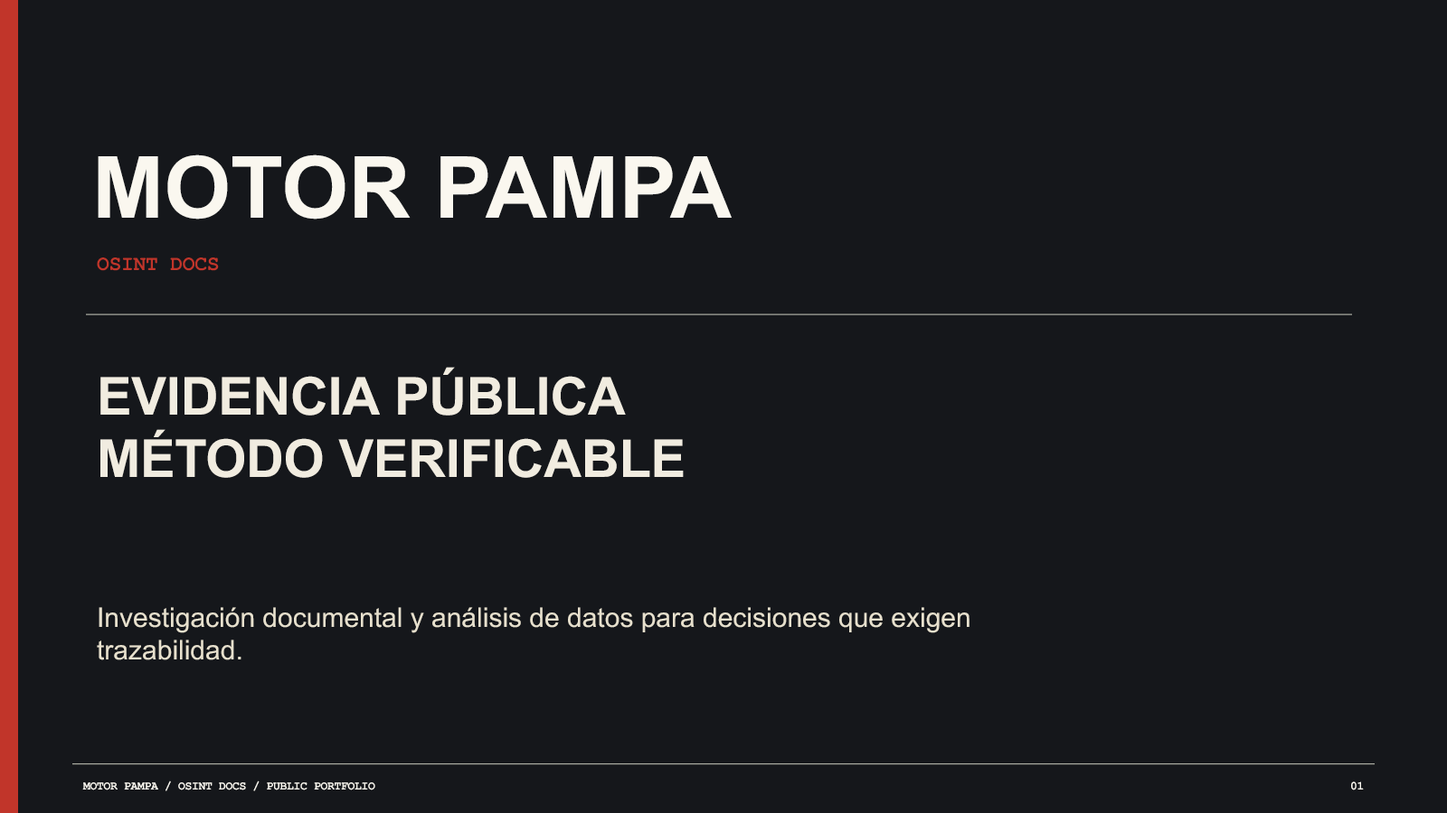
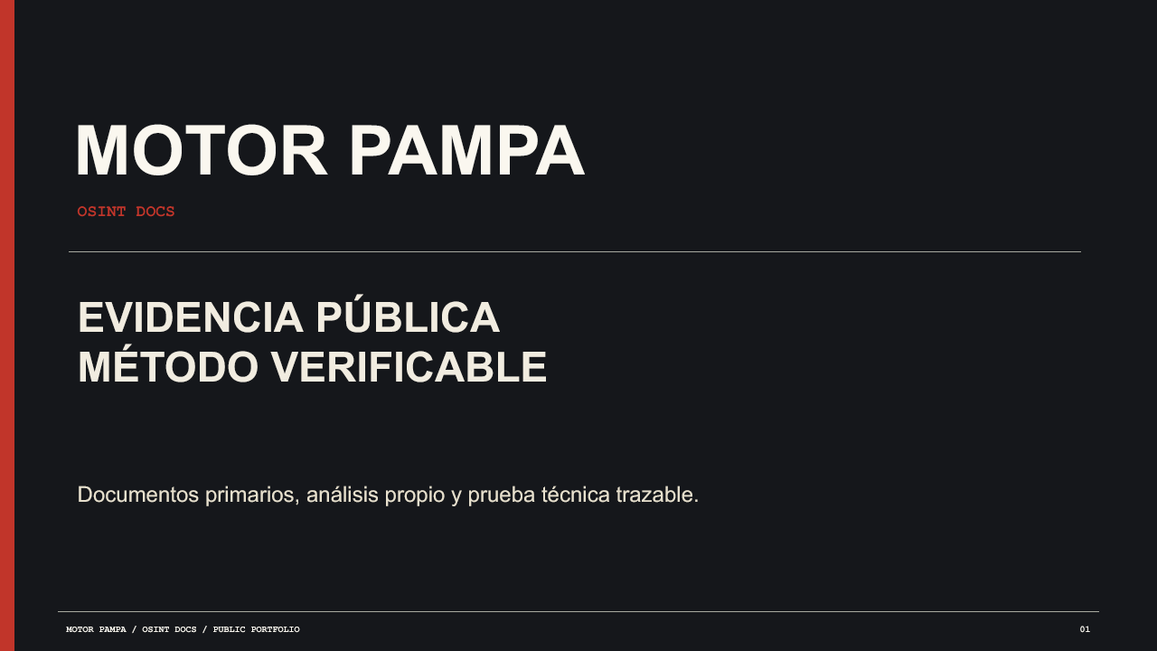
Present evidence depth and commercial offer clearly

diff --git a/index.html b/index.html
@@ -3,7 +3,7 @@
 <head>
   <meta charset="utf-8">
   <meta name="viewport" content="width=device-width, initial-scale=1">
-  <meta name="description" content="Motor Pampa: investigación documental y análisis de datos con trazabilidad.">
+  <meta name="description" content="Motor Pampa: investigación documental, auditoría de datos y análisis técnico-probatorio con trazabilidad.">
   <title>Motor Pampa — OSINT Docs</title>
   <link rel="stylesheet" href="design/site.css">
 </head>
@@ -29,8 +29,8 @@
       <div class="shell">
         <div class="eyebrow">PRÁCTICA INDEPENDIENTE / 2026</div>
         <h1>Evidencia pública.<br>Método verificable.</h1>
-        <p class="lede">Investigación documental y análisis de datos para decisiones que exigen trazabilidad. Cada hallazgo conserva su fuente, su grado de evidencia y sus límites.</p>
-        <a class="cta" href="presentacion/">VER PRESENTACIÓN</a>
+        <p class="lede">Documentos primarios, reconstrucción societaria, tasas y análisis propios, y prueba técnica para decisiones que exigen trazabilidad. Cada hallazgo conserva su fuente, método y fecha de corte.</p>
+        <a class="cta" href="presentacion/Motor_Pampa_Research_2026-09-23.pptx">VER PRESENTACIÓN</a>
       </div>
     </section>
 
@@ -52,14 +52,15 @@
       <div class="shell">
         <div class="kicker">02 / INVESTIGACIONES</div>
         <h2>Trabajo publicado, fuente por fuente</h2>
-        <p class="lede">Seis líneas de investigación con cifras de corte, documentos primarios y límites de cada conclusión.</p>
+        <p class="lede">Siete líneas de investigación con cifras de corte, documentos primarios y límites de cada conclusión.</p>
         <div class="grid">
           <article class="panel span-4"><div class="id">ELECTORAL / SOCIETARIO</div><h3>Cerimedo</h3><p>Auditoría de campaña, sociedades, registros FARA y correcciones del legajo.</p><a href="investigaciones/cerimedo.md">Leer investigación</a></article>
-          <article class="panel span-4"><div class="id">JUJUY / SOCIETARIO</div><h3>Cannava</h3><p>Contratos originales, dos corredores de derechos y estructura BBV–SATIN–Blueberries.</p><a href="investigaciones/cannava.md">Leer investigación</a></article>
-          <article class="panel span-4"><div class="id">SALUD / PRUEBA</div><h3>IOSFA</h3><p>Mora informativa, transición institucional y preservación técnica de registros.</p><a href="investigaciones/iosfa.md">Leer investigación</a></article>
+          <article class="panel span-4"><div class="id">JUJUY / SOCIETARIO</div><h3>Cannava</h3><p>Contrato original, exhibits SEC, SPA CSE y boletines: dos corredores de derechos y reconstrucción BBV–SATIN–Blueberries.</p><a href="investigaciones/cannava.md">Leer investigación</a></article>
+          <article class="panel span-4"><div class="id">SALUD / PRUEBA</div><h3>IOSFA</h3><p>Mora informativa y protocolo técnico para preservar y conciliar registros durante la transición.</p><a href="investigaciones/iosfa.md">Leer investigación</a></article>
           <article class="panel span-4"><div class="id">CIENCIA / REGULACIÓN</div><h3>Cannabis en Argentina</h3><p>Once mapas; publicaciones, instituciones, ensayos y brechas entre ciencia y acceso.</p><a href="investigaciones/cannabis-ciencia.md">Leer investigación</a></article>
-          <article class="panel span-4"><div class="id">TRANSPARENCIA</div><h3>Acceso a la información</h3><p>Estadísticas oficiales de solicitudes vencidas por organismo y unidad de análisis.</p><a href="investigaciones/acceso-informacion.md">Leer investigación</a></article>
-          <article class="panel span-4"><div class="id">SALUD PÚBLICA</div><h3>Suicidios</h3><p>Serie nacional, diferencias territoriales y límites al comparar cuatro registros.</p><a href="investigaciones/suicidios.md">Leer investigación</a></article>
+          <article class="panel span-4"><div class="id">TRANSPARENCIA</div><h3>Acceso a la información</h3><p>62.311 solicitudes, tasas comparables y circuitos de demora como insumo para reclamos y litigios.</p><a href="investigaciones/acceso-informacion.md">Leer investigación</a></article>
+          <article class="panel span-4"><div class="id">SALUD PÚBLICA</div><h3>Suicidios</h3><p>Serie 2005–2024, tasas y cálculos propios, contraste de cuatro sistemas y crítica de clasificación.</p><a href="investigaciones/suicidios.md">Leer investigación</a></article>
+          <article class="panel span-4"><div class="id">AUDITORÍA DE FUENTES</div><h3>Observatorio Cannis</h3><p>Corrección de proxies, cobertura documental, cifras simuladas y secuencia normativa.</p><a href="investigaciones/observatorio-cannis.md">Leer investigación</a></article>
         </div>
         <p><a href="investigaciones/README.md">Ver índice y regla de evidencia</a></p>
       </div>
@@ -96,9 +97,9 @@
       <div class="shell grid">
         <div class="span-8">
           <div class="kicker">04 / FORMATOS COMPRABLES</div>
-          <h2>Empezar con un piloto acotado</h2>
-          <p class="lede">Cuatro pilotos con pregunta cerrada, fuentes autorizadas, entregables y criterio de aceptación. Hay alcance, plazo y precio orientativo antes de pedir una cotización.</p>
-          <p><a href="comercial/PILOTOS.md">Comparar los cuatro pilotos</a></p>
+          <h2>Un piloto cerrado o un análisis a medida</h2>
+          <p class="lede">Un servicio contratado para producir entregables verificables, no una idea que busca financiamiento. Cuatro pilotos con alcance, plazo y precio orientativo; auditorías de informes y análisis técnico-probatorio a medida.</p>
+          <p><a href="comercial/PILOTOS.md">Comparar pilotos</a> · <a href="comercial/SERVICIOS.md">Ver todas las capacidades</a></p>
         </div>
         <div class="panel span-4">
           <div class="metric">4</div>
@@ -110,7 +111,7 @@
   </main>
 
   <footer>
-    <div class="shell">MOTOR PAMPA / PUBLIC PORTFOLIO / CORTE 2026-09-22 / NO ENVIAR MATERIAL SENSIBLE POR GITHUB</div>
+    <div class="shell">MOTOR PAMPA / PUBLIC PORTFOLIO / ACTUALIZACIÓN 2026-09-23 / NO ENVIAR MATERIAL SENSIBLE POR GITHUB</div>
   </footer>
 </body>
 </html>

diff --git a/README.md b/README.md
@@ -1,12 +1,12 @@
 # MOTOR PAMPA
 
-### Si una conclusión importa, mostremos los documentos.
+### Documentos primarios, datos propios y una ruta de prueba para decisiones reales.
 
-Investigación documental OSINT, auditoría de datos y análisis técnico-probatorio en Argentina. Reconstruimos hechos a partir de fuentes dispersas y entregamos una ruta verificable desde cada afirmación hasta su respaldo. También señalamos lo que falta, contradice o todavía no puede afirmarse.
+Investigación documental OSINT, auditoría de datos y análisis técnico-probatorio en Argentina. Llegamos a contratos, expedientes, bases y archivos originales; reconstruimos cadenas societarias y administrativas; calculamos indicadores propios. Cada conclusión vuelve a su fuente, su método y su fecha de corte.
 
 ![Portada de Motor Pampa](presentacion/preview.png)
 
-**[Ver investigaciones reales](investigaciones/README.md) · [Explorar cuatro pilotos](comercial/PILOTOS.md) · [Leer el método](metodologia/METODO.md) · [Abrir la presentación](presentacion/Motor_Pampa_Research.pptx)**
+**[Ver investigaciones reales](investigaciones/README.md) · [Explorar cuatro pilotos](comercial/PILOTOS.md) · [Leer el método](metodologia/METODO.md) · [Abrir la presentación](presentacion/Motor_Pampa_Research_2026-09-23.pptx)**
 
 ## El problema que resolvemos
 
@@ -17,8 +17,11 @@ Motor Pampa ordena ese trabajo para estudios jurídicos, equipos de compliance, 
 | Si necesitás… | Te entregamos… |
 |---|---|
 | Saber si una hipótesis se sostiene | Cronología, matriz de afirmaciones, fuentes y vacíos |
+| Reconstruir una cadena de contratos o sociedades | Instrumentos primarios, mapa de partes y derechos, cambios de control y eslabones documentales faltantes |
+| Comprobar un informe antes de usarlo | Auditoría de fuentes, filtros, código y cifras; correcciones y límites publicables |
 | Revisar un corpus sin perder versiones | Índice, hashes, procedencia y bitácora de un data room |
-| Usar una cifra pública con confianza | Base depurada, controles, análisis reproducible y límites |
+| Usar una cifra pública con confianza | Base depurada, tasas y estimaciones propias, pruebas de sensibilidad, código y límites |
+| Documentar una mora informativa | Tasas comparables por sujeto y cohorte, recorrido administrativo y anexos para reclamos o revisión jurídica |
 | Detectar cambios relevantes | Observatorio de fuentes con alertas justificadas |
 | Preparar registros digitales para una controversia o auditoría | Plan de preservación, inventario de sistemas, cotejo de versiones y lotes, controles de integridad e informe técnico para revisión jurídica o pericial, según los materiales disponibles |
 
@@ -30,16 +33,17 @@ Estas páginas son una edición pública del trabajo; enlazan originales en sus 
 
 | Investigación | Lo que permite examinar |
 |---|---|
-| [Cannava](investigaciones/cannava.md) | Contratos y presentaciones regulatorias de varios países; dos rutas contractuales que **no** se unen sin el instrumento faltante. |
-| [Acceso a la información](investigaciones/acceso-informacion.md) | Auditoría de 62.311 solicitudes y por qué “expediente alojado en una repartición” no equivale a “organismo que debía responder”. |
-| [Suicidios](investigaciones/suicidios.md) | Serie 2005–2024 y contraste entre registros sin sumarlos como observaciones independientes ni exponer personas. |
+| [Cannava](investigaciones/cannava.md) | Contrato original Cannava–PNTV, exhibits SEC, SPA regulatorio CSE y boletines: reconstrucción societaria BBV–SATIN–Blueberries y dos rutas de derechos aún no unidas por un instrumento público. |
+| [Acceso a la información](investigaciones/acceso-informacion.md) | 62.311 solicitudes y 4.451 reclamos: proporciones de vencimiento por sujeto obligado, circuitos de demora y una base para preparar reclamos y litigios con el expediente individual. |
+| [Suicidios](investigaciones/suicidios.md) | Serie 2005–2024, cálculos propios de tasas y cambios, y contraste crítico de DEIS, SNIC, SNVS y MPA sin duplicar hechos ni exponer personas. |
 | [IOSFA](investigaciones/iosfa.md) | Dos cortes administrativos y un protocolo técnico para preservar logs, cotejar migraciones y documentar qué prueba faltaría para evaluar continuidad prestacional. |
+| [Observatorio Cannis](investigaciones/observatorio-cannis.md) | Auditoría adversarial de un dossier: proxies temáticos, objetos no recuperados, cifras simuladas y cronología normativa corregida. |
 
 También están [Cerimedo](investigaciones/cerimedo.md) y el [mapa científico del cannabis en Argentina](investigaciones/cannabis-ciencia.md). Los [tres casos demostrativos](casos/) muestran el formato de entrega sin publicar material sensible.
 
 ## Empezar con una pregunta, no con un contrato enorme
 
-Los [cuatro modelos de piloto](comercial/PILOTOS.md) fijan alcance, plazo, entregables, aceptación y precio orientativo. El punto de entrada más simple es un [Evidence Sprint](comercial/pilotos/01-evidence-sprint.md): una pregunta cerrada, búsqueda delimitada y un memo que muestra qué se puede sostener hoy y qué diligencia conviene hacer después. También hay [auditoría de datos](comercial/pilotos/02-auditoria-datos.md), [Data Room](comercial/pilotos/03-data-room.md) y [observatorio](comercial/pilotos/04-observatorio.md).
+Esto es un servicio de investigación contratado por un equipo que necesita decidir, publicar, auditar o preparar una controversia; **no es una solicitud de financiamiento para una idea**. Los [cuatro modelos de piloto](comercial/PILOTOS.md) fijan alcance, plazo, entregables, aceptación y precio orientativo. El punto de entrada más simple es un [Evidence Sprint](comercial/pilotos/01-evidence-sprint.md): una pregunta cerrada, búsqueda delimitada y un memo que muestra qué se puede sostener hoy y qué diligencia conviene hacer después. También hay [auditoría de datos](comercial/pilotos/02-auditoria-datos.md), [Data Room](comercial/pilotos/03-data-room.md) y [observatorio](comercial/pilotos/04-observatorio.md).
 
 El [análisis técnico-probatorio](comercial/SERVICIOS.md#análisis-técnico-probatorio) se encuadra como proyecto a medida: depende de los sistemas, custodios, registros disponibles y finalidad procesal o de auditoría. No se le asigna un precio estándar sin revisar esos extremos.
 
@@ -62,4 +66,4 @@ Este portafolio sigue las [salvaguardas de privacidad y publicación](salvaguard
 
 ---
 
-**Motor Pampa · práctica independiente · edición pública 2026-09-22.** Cada investigación declara su propio corte. Publicar el repositorio no concede licencia de reutilización del contenido: ver [LICENSE.md](LICENSE.md).
+**Motor Pampa · práctica independiente · edición pública 2026-09-23.** Cada investigación declara su propio corte. Publicar el repositorio no concede licencia de reutilización del contenido: ver [LICENSE.md](LICENSE.md).

diff --git a/investigaciones/observatorio-cannis.md b/investigaciones/observatorio-cannis.md
@@ -1,0 +1,23 @@
+# Observatorio Cannis: auditar el informe antes de ampliar el mapa
+
+`CORTE DE AUDITORÍA / 2026-06-21` · `CORTE DE MAPAS / 2026-06-22`
+
+Esta línea empezó con una pregunta incómoda: ¿las cifras y relaciones de un dossier previo resistían el regreso a sus fuentes? El trabajo revisó bases de acceso a la información, documentos regulatorios, presupuesto y catálogos sectoriales. Algunas señales sobrevivieron; otras cambiaron de significado al corregir el universo, recuperar el objeto de los expedientes o revisar el código que producía una cifra. El [mapa científico e institucional](cannabis-ciencia.md) es una ampliación posterior, no un sustituto de esta auditoría.
+
+## Tres correcciones que importan
+
+| Afirmación que había que comprobar | Resultado del cotejo | Consecuencia editorial |
+|---|---|---|
+| “360 reclamos sobre cannabis” | El filtro capturaba organismos de Salud y otras áreas, sin verificar el tema de cada reclamo. | La cifra describe un **proxy institucional amplio**, no 360 reclamos temáticos. |
+| “No hay reclamos sobre cannabis en la muestra” | De 281 reclamos candidatos desde marzo de 2021, el objeto pudo recuperarse en 140. Ninguno de esos 140 quedó confirmado como cannabis; 141 permanecieron sin clasificación temática concluyente. | Cero confirmados en lo recuperado **no** equivale a cero en todo el universo. |
+| “ARICCAME tuvo esta ejecución presupuestaria” | Las cifras atribuidas a la agencia provenían de una rutina de extracción simulada. | Se retiraron de la evidencia y se buscó una actividad identificable en [Presupuesto Abierto](https://www.presupuestoabierto.gob.ar/sici/datos-abiertos), con unidad y corte propios. |
+
+`[A]` Los [datasets oficiales de solicitudes](https://datos.gob.ar/dataset/aaip-solicitudes-acceso-informacion-publica) y [reclamos](https://datos.gob.ar/dataset/aaip-reclamos-sobre-solicitudes-acceso-informacion-publica) permiten reproducir los recuentos administrativos. No ofrecen una clave directa para unir cada solicitud con su eventual reclamo ni garantizan recuperar el tema de todos los expedientes. Por eso el observatorio separa **candidato por organismo**, **objeto recuperado** y **caso temáticamente confirmado**.
+
+La línea regulatoria también exigió una corrección de secuencia: el [Decreto 462/2025](https://www.boletinoficial.gob.ar/detalleAviso/primera/328017/20250708) dispuso la disolución de ARICCAME e INASE, pero el [Decreto 627/2025](https://www.boletinoficial.gob.ar/detalleAviso/primera/330755/20250903) restituyó expresamente el régimen y las estructuras previas tras el rechazo legislativo. Describir sólo la primera medida deja una historia incompleta. La [Resolución INASE 484/2025](https://www.boletinoficial.gob.ar/detalleAviso/primera/333862/20251103) fue publicada en noviembre, no en marzo de ese año; una coincidencia temporal mal fechada no sostiene una explicación causal.
+
+## Qué demuestra el trabajo
+
+El producto verificable es una **auditoría adversarial de un informe**: inventario de afirmaciones, reproducción de filtros y cálculos, revisión del código de origen, búsqueda de documentos primarios, registro de cobertura y correcciones públicas con sus límites. La capa adicional contrastó normas, catálogo [INASE](https://gestion.inase.gob.ar/registroCultivares/publico/catalogo) y el [Observatorio de Cannabis de UNPAZ](https://observatoriocannabis.unpaz.edu.ar/), sin tratar la ausencia en un catálogo como inexistencia del hecho buscado.
+
+Esta edición pública no redistribuye objetos de reclamos, expedientes ni el corpus de trabajo. Tampoco convierte una hipótesis sobre coordinación deliberada o trato preferencial en una conclusión: los documentos examinados no bastan para demostrarla.

diff --git a/investigaciones/suicidios.md b/investigaciones/suicidios.md
@@ -2,13 +2,15 @@
 
 `SERIE CONSOLIDADA 2005–2024 / CORTE METODOLÓGICO 2026-09-17`
 
-La investigación combina estadísticas vitales, seguridad, vigilancia y registros provinciales sin sumarlos como si fueran observaciones independientes. La serie principal procede de [DEIS](https://www.argentina.gob.ar/salud/deis/datos/defunciones), con denominadores de [INDEC](https://www.indec.gob.ar/indec/web/Nivel3-Tema-2-24). Para mortalidad registrada se usa CIE-10 X60–X84. Las muertes de intención no determinada, Y10–Y34, se muestran aparte como prueba de sensibilidad; no se reclasifican automáticamente.
+La investigación construye una serie, **produce números propios** y contrasta estadísticas vitales, seguridad, vigilancia y registros provinciales sin sumarlos como si fueran observaciones independientes. La serie principal procede de [DEIS](https://www.argentina.gob.ar/salud/deis/datos/defunciones), con denominadores de [INDEC](https://www.indec.gob.ar/indec/web/Nivel3-Tema-2-24). Para mortalidad registrada se usa CIE-10 X60–X84. Las muertes de intención no determinada, Y10–Y34, se muestran aparte como prueba de sensibilidad; no se reclasifican automáticamente.
 
 ## Resultados que admiten publicación agregada
 
 - `[A]` En el universo de residentes de las 24 jurisdicciones, la serie DEIS pasa de **3.208** defunciones clasificadas como autoinfligidas en 2022 a **3.598** en 2024: 390 registros adicionales. El cambio de una cifra publicada no separa por sí mismo incidencia, captación y codificación.
-- `[A]` En el trienio 2022–2024, para residentes bonaerenses con partido conocido, la tasa cruda registrada fue **7,32** por 100.000 personas-año en el interior y **2,84** en los 40 partidos metropolitanos. Al agregar en una *prueba de sensibilidad* la categoría de intención no determinada, los valores son **21,71** y **21,18**. La segunda suma no estima suicidios ocultos ni elimina diferencias de edad.
-- `[A]` En la variación nacional 2022–2024, los grupos de 25 a 44 años aportan 318 de los 390 registros netos adicionales. En 15–24 años hubo 26 menos en esa ventana. El anuario oficial ubicó al suicidio como segunda causa de muerte en 15–24 años en 2024; no sustenta la frase “primera causa para todos los jóvenes”.
+- `[A · cálculo propio]` En el trienio 2022–2024, para residentes bonaerenses con partido conocido, la tasa cruda registrada fue **7,32** por 100.000 personas-año en el interior y **2,84** en los 40 partidos metropolitanos. Al agregar en una *prueba de sensibilidad* la categoría de intención no determinada, los valores son **21,71** y **21,18**. La segunda suma no estima suicidios ocultos ni elimina diferencias de edad.
+- `[A · cálculo propio]` En la variación nacional 2022–2024, los grupos de 25 a 44 años aportan 318 de los 390 registros netos adicionales. En 15–24 años hubo 26 menos en esa ventana. El anuario oficial ubicó al suicidio como segunda causa de muerte en 15–24 años en 2024; no sustenta la frase “primera causa para todos los jóvenes”.
+
+Además de esas cuentas, el trabajo calculó tasas por edad y sexo, razones estandarizadas, años potenciales de vida perdidos, tendencia mediante modelos de Poisson, intervalos por remuestreo, contribución territorial al cambio y pruebas de quiebre en la clasificación. Son **estimaciones de Motor Pampa sobre registros oficiales**, no indicadores publicados por esos organismos. La crítica metodológica es parte del resultado: un cambio en la codificación, la cobertura del SNVS o el flujo de datos entre sistemas puede alterar la comparación sin que eso mida automáticamente un cambio en la incidencia real.
 
 ## Cuatro sistemas, cuatro preguntas
 

diff --git a/investigaciones/acceso-informacion.md b/investigaciones/acceso-informacion.md
@@ -23,8 +23,18 @@ La [tabla agregada descargable](datos/aaip_ranking_20260602.csv) conserva los nu
 
 Los ministerios de Economía y Salud tienen más vencidos en número absoluto que varios de los primeros puestos, porque reciben un volumen mucho mayor. Por eso el orden cambia cuando se usa stock, proporción o duración. Las solicitudes recientes sufren censura temporal: todavía no todas tuvieron tiempo de vencer. Un ranking por año de ingreso necesita cohortes maduras, y los cambios de estructura ministerial requieren una tabla de equivalencias antes de comparar períodos.
 
+## Utilidad para reclamos y litigios
+
+El cálculo no termina en un ranking. Para un sujeto obligado se puede construir una **línea de base de respuesta** con numerador, denominador, período, cohorte y estado; contrastarla con solicitudes comparables; y adjuntar la ficha del expediente concreto, sus pases, notificaciones y respuestas. Ese paquete permite a un equipo jurídico argumentar con contexto empírico sobre una demora o una práctica administrativa, formular pedidos de prueba y discutir explicaciones alternativas. La [Ley 27.275](https://www.argentina.gob.ar/normativa/nacional/265949/texto) prevé vías de reclamo y control judicial; esta base no sustituye los requisitos ni los plazos de cada caso.
+
+No se obtiene una “tasa de respuesta” fiable promediando porcentajes de organismos con tamaños distintos. Para el universo combinado se suman numeradores y denominadores, y se separa **respuesta comunicada, respuesta en plazo, vencimiento y suficiencia del contenido**. La base pública usada aquí permite medir con claridad el estado `Vencido` al corte, no demostrar por sí sola cuándo llegó cada respuesta ni si fue completa. La proporción agregada del archivo es 2.319/62.311 = **3,7 % de vencidos registrados**; su complemento no es una tasa de respuesta oportuna y satisfactoria.
+
 ## Otra pregunta: dónde queda el expediente
 
 El campo `reparticion_actual` localiza el trámite **hoy**; no identifica necesariamente al organismo que lo recibió, debía responderlo o lo demoró históricamente. Con ese campo, el corte mostraba 111 vencidos entre 114 expedientes alojados en reparticiones IOSFA, 76 de 76 en ARN y 117 de 131 en ANLIS. Son colas retenidas al corte, no tasas históricas de respuesta de esas instituciones. El [análisis IOSFA](iosfa.md) repite el cálculo con sujeto canónico y un segundo corte para evitar mezclar universos.
+
+## Del ranking al recorrido administrativo
+
+El análisis también clasifica **dónde queda detenido un expediente**: recepción, pase, derivación, gestión o notificación. De las 2.319 solicitudes marcadas `Vencido` al 02-06-2026, 1.687 figuraban en el buzón genérico `TAD_DNAIP`. Ese ruteo es una señal para pedir bitácoras y responsabilidades por etapa; no identifica por sí solo al agente que demoró una respuesta ni prueba que nunca se notificó fuera del sistema. Para priorizar una auditoría se conservan por separado sujeto obligado, custodio actual, fecha de inicio y fecha del último pase.
 
 `[A]` La base permite describir estado, volumen y ubicación administrativa. `[B]` Una explicación causal de la demora, o una conclusión sobre mala fe institucional, exige actuaciones completas, movimientos GDE y respuestas notificadas. El ranking sirve para seleccionar pedidos y auditorías, no para sustituirlos.

diff --git a/investigaciones/cannava.md b/investigaciones/cannava.md
@@ -2,7 +2,7 @@
 
 `CORTE DOCUMENTAL / 2026-09-04`
 
-La reconstrucción separa dos corredores contractuales vinculados al proyecto estatal de Jujuy. El primero nace del convenio de 2018 entre Cannava S.E. y Players Network (PNTV). El segundo es un acuerdo directo BBV Labs–Cannava descrito en documentación posterior, con SATIN y Blueberries en su estructura. El legajo preserva facsímiles, presentaciones regulatorias, boletines y manifiestos; esta página enlaza los originales abiertos y conserva las condiciones de lectura.
+Esta investigación llegó a los **instrumentos primarios**, no sólo a notas que los citan: el convenio de 2018 entre Cannava S.E. y Players Network (PNTV), contratos exhibidos ante la SEC, el SPA publicado por la CSE y boletines societarios de Jujuy. Con ellos reconstruimos partes, derechos, cambios de control y la estructura BBV Labs–SATIN–Blueberries. El resultado más importante es una distinción jurídica concreta: el corredor PNTV–Cannava y el acuerdo directo BBV Labs–Cannava descrito después son dos rutas; el archivo público revisado no contiene el instrumento que permita unirlas. El legajo preserva facsímiles, presentaciones regulatorias, boletines y manifiestos; esta página enlaza los originales abiertos y conserva las condiciones de lectura.
 
 ## Ruta de los documentos primarios
 
@@ -19,6 +19,10 @@ La reconstrucción separa dos corredores contractuales vinculados al proyecto es
 `[A]` Los documentos de adquisición de Blueberries describen la compra del 100 % de BBV Labs y una participación del 75 % en SATIN. [Estados financieros posteriores de la emisora](https://thecse.com/listings/blueberries-medical-corp/cse-filings/) las mantienen consolidadas y las califican como inactivas al corte revisado. “Inactiva” en un balance no significa disuelta ni extingue por sí sola un derecho contractual. Las enmiendas económicas de 2019–2020 aparecen resumidas en disclosures; los instrumentos firmados no se localizaron.
 
 `[A]` El contrato original fija condiciones económicas y un derecho de preferencia. El contrato PNI–GLFI identifica a GLFI como subcontratista. `[NEG]` En el corpus abierto examinado no apareció un instrumento que termine el convenio PNTV–Cannava, una cesión PNTV→BBV, el consentimiento de Cannava para BBV→SATIN ni la cesión correspondiente. Por eso los dos corredores se muestran en paralelo, sin dibujar una cadena jurídica continua entre ellos.
+
+## Examen técnico de un documento público
+
+El [SPA publicado en el archivo regulatorio CSE](https://sedar-filings-backup.thecse.com/00035029/1907120817202848.pdf) se examinó como PDF, además de leerse como texto. La revisión de sus 51 páginas, flujos de contenido y metadatos no encontró una capa nominal recuperable bajo las redacciones de los vendedores; el texto del archivo ya decía `Redacted – Confidential Information`. `[NEG]` El resultado se limita a **ese PDF público**. Un dato de autoría técnica del archivo no identifica por sí solo a los vendedores ni permite reconstruir un documento original no publicado.
 
 ## Capital, operación y exportación
 

diff --git a/comercial/SERVICIOS.md b/comercial/SERVICIOS.md
@@ -26,9 +26,19 @@ Normalización, control de calidad y análisis reproducible de registros oficial
 
 Entrega: base documentada, diccionario, QA, tablas, límites y recomendaciones de mejora.
 
+Una aplicación concreta es el [benchmark de acceso a la información](../investigaciones/acceso-informacion.md): proporciones por sujeto y cohorte, recorrido de expedientes y un anexo estadístico que un equipo jurídico puede contrastar con un caso individual. No se confunde `Resuelto` con respuesta oportuna o suficiente, ni se promedian porcentajes sin atender a sus denominadores.
+
+## Auditoría adversarial de informes
+
+Revisión de una investigación, cifra o dossier antes de publicarlo o usarlo para decidir. Se reproducen filtros y cálculos, se confrontan afirmaciones con documentos primarios y se distinguen errores, universos incompletos y desacuerdos interpretativos. El [Observatorio Cannis](../investigaciones/observatorio-cannis.md) muestra una revisión que retiró una cifra simulada y corrigió un proxy temático demasiado amplio.
+
+Entrega: matriz afirmación–fuente, prueba de reproducción, lista priorizada de correcciones y versión con límites explícitos.
+
 ## Análisis técnico-probatorio
 
 Preparación y examen documentado de registros digitales para una auditoría, investigación o controversia. Puede abarcar inventario de sistemas y custodios, protocolo de preservación, hashes de exportaciones, cotejo de versiones, conciliación de lotes migrados y rechazados, y reconstrucción de una secuencia de eventos a partir de logs obtenidos legítimamente.
+
+También puede incluir un examen acotado de la estructura, versiones, metadatos y redacciones de un archivo público, como el [PDF regulatorio revisado en Cannava](../investigaciones/cannava.md#examen-técnico-de-un-documento-público). El resultado se limita al objeto efectivamente examinado.
 
 Entrega: plan de preservación y requerimientos técnicos, matriz origen–destino, controles reproducibles, cronología de eventos e informe que separa lo observado de lo que todavía requiere acceso o corroboración. El [caso IOSFA](../investigaciones/iosfa.md) muestra el diseño de una arquitectura de prueba y sus límites; no implica que Motor Pampa haya accedido a los sistemas internos allí enumerados.
 

diff --git a/investigaciones/README.md b/investigaciones/README.md
@@ -1,8 +1,8 @@
 # Investigaciones
 
-`EDICIÓN PÚBLICA / CORTE EDITORIAL 2026-09-22`
+`EDICIÓN PÚBLICA / ACTUALIZACIÓN EDITORIAL 2026-09-23`
 
-El primer lanzamiento de este repositorio sólo mostraba tres casos anónimos. Esta sección identifica seis líneas de investigación efectivamente trabajadas, sus resultados comprobables, documentos primarios accesibles y límites. Cada página distingue el corte del trabajo del estado actual de las instituciones: las cifras históricas no son un tablero en tiempo real.
+El primer lanzamiento de este repositorio sólo mostraba tres casos anónimos. Esta sección identifica siete líneas de investigación efectivamente trabajadas, sus resultados comprobables, documentos primarios accesibles y límites. Cada página distingue el corte del trabajo del estado actual de las instituciones: las cifras históricas no son un tablero en tiempo real.
 
 | Línea | Qué puede examinarse aquí | Corte del acervo |
 |---|---|---|
@@ -10,6 +10,7 @@ El primer lanzamiento de este repositorio sólo mostraba tres casos anónimos. E
 | [Cannava y la reconstrucción societaria](cannava.md) | Contratos SEC, dos corredores, BBV/SATIN/Blueberries y documentos faltantes | 04-09-2026 |
 | [IOSFA: mora y arquitectura probatoria](iosfa.md) | Dos cortes SIP, transiciones institucionales y prueba aún requerida | 20-07-2026 |
 | [Mapa científico e institucional del cannabis](cannabis-ciencia.md) | Once mapas, publicaciones, instituciones, ensayos y brechas regulatorias | 22-06-2026 |
+| [Observatorio Cannis: auditoría del dossier](observatorio-cannis.md) | Revisión de proxies, objetos recuperables, cifras simuladas y secuencia normativa | 22-06-2026 |
 | [Acceso a la información](acceso-informacion.md) | Estadísticas agregadas por sujeto obligado y límites de cada denominador | 02-06-2026 |
 | [Suicidios: registro, territorio y respuesta](suicidios.md) | Series DEIS, contraste de sistemas y notas de calidad del dato | 17-09-2026 |
 

diff --git a/investigaciones/cannabis-ciencia.md b/investigaciones/cannabis-ciencia.md
@@ -4,6 +4,8 @@
 
 El observatorio integra once mapas: acceso a información; recuperación documental; presupuesto; REPROCANN; INASE; ciencia y ensayos; provincias; ANMAT/INAME; compras; comercio exterior; y actividad parlamentaria. Cada mapa define una unidad de análisis distinta. La existencia de una norma, publicación, convocatoria o anuncio no equivale a producto autorizado, compra ejecutada, entrega o exportación atribuible a una empresa.
 
+Antes de ampliar estos mapas, el equipo [auditó el dossier previo](observatorio-cannis.md): corrigió un proxy de reclamos demasiado amplio, registró los objetos no recuperados y retiró cifras presupuestarias simuladas. Esa depuración forma parte del resultado, no sólo de la cocina metodológica.
+
 ## Ciencia y capacidad visible
 
 El barrido de [OpenAlex](https://openalex.org/) registró **214 trabajos candidatos únicos** con afiliación argentina y vocabulario temático, asociados a **121 instituciones argentinas**. Son metadatos bibliográficos: el recuento depende de indexación, consulta y deduplicación. No mide por sí solo impacto clínico, financiamiento vigente ni transferencia industrial. El [Sistema Nacional de Repositorios Digitales](https://repositoriosdigitales.mincyt.gob.ar/vufind/) aportó **286 registros candidatos** después de filtrar títulos y deduplicar URLs.

diff --git a/presentacion/README.md b/presentacion/README.md
@@ -1,6 +1,6 @@
 # Presentación institucional
 
-El archivo `Motor_Pampa_Research.pptx` es un deck editable de once diapositivas para reuniones comerciales y alianzas.
+La [presentación actual](Motor_Pampa_Research_2026-09-23.pptx) es un deck editable de once diapositivas para reuniones comerciales y alianzas. La [versión inicial](Motor_Pampa_Research.pptx) se conserva como antecedente, no como pieza para circular.
 
 ![Vista previa de la portada](preview.png)
 
@@ -11,10 +11,10 @@ El archivo `Motor_Pampa_Research.pptx` es un deck editable de once diapositivas 
 3. Producto entregable.
 4. Método.
 5. Estándar de evidencia.
-6. Caso de salud pública.
-7. Caso de industria regulada.
-8. Observatorio.
-9. Servicios.
+6. Suicidios: serie, números propios y contraste de registros.
+7. Cannava: documentos primarios, reconstrucción societaria y dos rutas de derechos.
+8. Observatorio Cannis: auditoría adversarial de un dossier.
+9. Pilotos y proyectos técnico-probatorios a medida.
 10. Rutas de mercado.
 11. Piloto propuesto.
 
